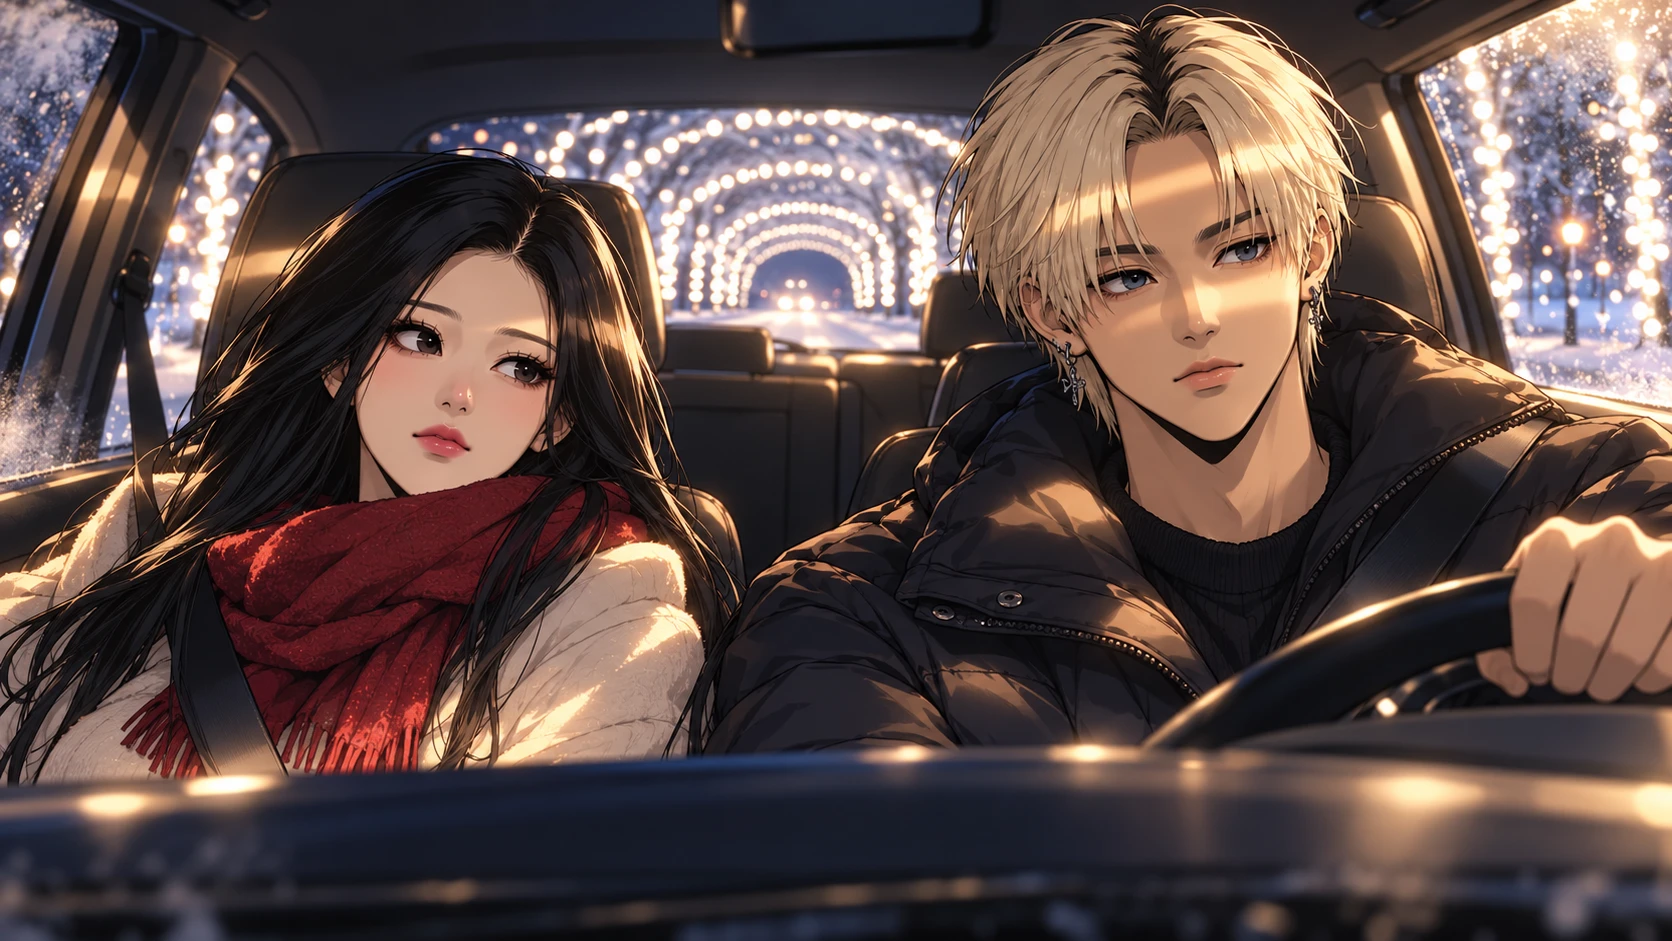
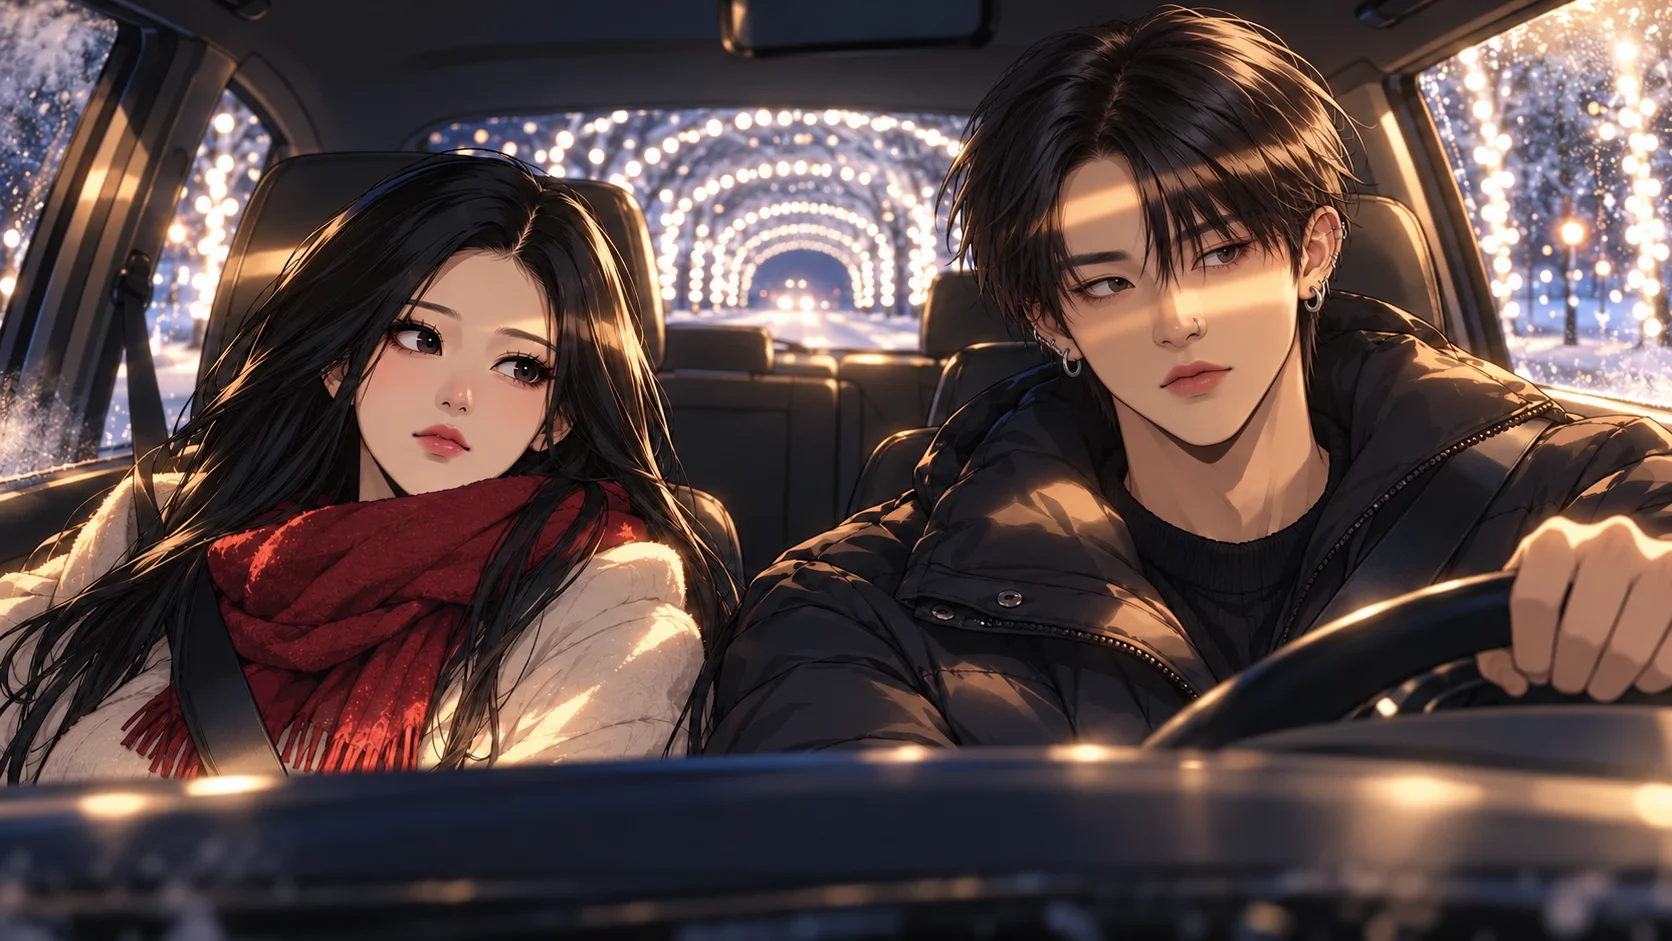
HOAX fixes 4A/4B in (Jihoon's black hair, Cherry's auburn); Kat's dawn city backgrounds saved; art list and roadmap ticked

diff --git a/FEMC-ART-TODO.md b/FEMC-ART-TODO.md
@@ -2,7 +2,7 @@
 
 Cleaned Oct 31 2026: only what's still to make. **Every attachment is in `Femc Mode Images/Place Prompt Attachments/`**, named after its item.
 
-**To make:** the title background (optional now that the cover is the title) · 3 HOAX picture fixes. **Optional:** 15 wardrobe items · 4 Stay hanami face sheets. **Parked:** `FEMC-ART-BACKBURNER.md`.
+**To make:** 1 HOAX picture fix (4C). **Optional:** 15 wardrobe items · 4 Stay hanami face sheets. **Parked:** `FEMC-ART-BACKBURNER.md`.
 
 **How to use this list**
 - Attach the files on each item's **Attach** line, in that order, then paste the prompt.
@@ -17,14 +17,8 @@ Cleaned Oct 31 2026: only what's still to make. **Every attachment is in `Femc M
 
 ---
 
-## 2. Title screen background (Gemini)
-No people: the game draws Solar over it. Leave the **right third** as open sky, because the logo and menu sit there. Nothing to attach for 2A.
-
-**2A. Title screen: the longest night turning to dawn** (no reference)
-> Persona 3 Reload style key-art background, 16:9, the largest size, no people, no readable text. A wide view from a seaside rooftop of a Japanese city at the exact moment night turns to dawn. Left and centre: the city skyline and the sea with a long suspension bridge. Far behind, a huge dark tower rises into the clouds, faint and ominous. The sky makes one sweep from deep indigo night, with stars and a pale full moon at the top right, down to a thin band of gold and rose sunrise on the horizon, with the first sunbeams spilling across the water. Keep the right third of the image mostly open sky, darker and calm. Clean lineart, flat cel shading, crisp highlights, indigo, violet, rose and gold palette, hopeful and a little melancholy.
-
-**2B. The same, Dark Hour variant** (optional, for a night title) 📎 attach your result from 2A, as an edit
-> Edit this image. Keep the composition exactly the same, but change it to the Dark Hour from Persona 3: the sky a sickly green-black, the full moon huge and yellow-green, the sunrise band gone, the city lights dead, the tower glowing faintly green, the sea dark and still. No people.
+## 2. Title screen background
+*(Done Oct 31: saved as `bg/city-dawn` and `bg/city-dawn-darkhour`.)*
 
 ---
 
@@ -36,19 +30,9 @@ No people: the game draws Solar over it. Leave the **right third** as open sky, 
 ## 4. HOAX picture fixes (ChatGPT)
 Three HOAX pictures still show the old looks (Jihoon blond, Cherry with black hair). Each one is an edit: one try each, nothing else changes.
 
-**[ ] 4A. Christmas Eve drive (Jihoon's route)**
-Attach: `Fix 1 - picture to edit (Christmas Eve drive).png`, then `Fix - Jihoon.png`
-Save as: `epi-h-eve-jihoon.png`
-```
-Edit the FIRST image. Keep everything exactly the same: the composition, the car, the tunnel of lights, the girl, the colours and the art style. Change only the young man driving: give him the face and hair of the person in the SECOND image (black, tousled hair with a fringe falling over his forehead, small silver earrings). Keep his black puffer jacket, his pose and his expression.
-```
+**[x] 4A. Christmas Eve drive** *(done Oct 31, in the game)*
 
-**[ ] 4B. The séance**
-Attach: `Fix 2 - picture to edit (seance).png`, then `Fix - Jihoon.png`, then `Fix - Cherry.png`
-Save as: `epi-h-seance.png`
-```
-Edit the FIRST image. Keep everything exactly the same: the composition, the room, the green candles, the board, the poses, the colours and the art style. Change only two people. 1) The blond young man at the top left: give him the face and hair of the person in the SECOND image (black, tousled hair with a fringe). Keep his clothes and pose. 2) The girl with wavy hair, sitting on the right of the two girls: give her the face and hair of the person in the THIRD image (long, wavy auburn-red hair). Keep her sweater and pose. The other girl, with long straight black hair, stays exactly as she is.
-```
+**[x] 4B. The séance** *(done Oct 31, in the game)*
 
 **[ ] 4C. The HOAX ending (the gym)**
 Attach: `Fix 3 - picture to edit (HOAX ending).png`, then `Fix - Jihoon.png`, then `Fix - Cherry.png`, then `Fix - Jungwon.png`

diff --git a/FEMC-FINISH-ROADMAP.md b/FEMC-FINISH-ROADMAP.md
@@ -3,17 +3,18 @@
 Kat's list of what to do before calling Persona 3: Solstice finished (Oct 30 2026), in the agreed order. Tick items off as they land.
 
 ## 1. Art clean-up (waits on ChatGPT usage)
-- [ ] HOAX outfit portraits: Christmas, the winter-break party, New Year in hanbok (outfit notes are in the Oct 30 chat; the hanbok row can grow to the whole council)
+- [x] HOAX outfit portraits (Oct 31, batch 104): Christmas, the winter-break party, New Year in hanbok (outfit notes are in the Oct 30 chat; the hanbok row can grow to the whole council)
 - [ ] Transparent versions of the remaining skin portraits and battle sheets (Claude lists which files still have backgrounds)
 
 ## 2. Pictures for the Runners social posts
 - [ ] Claude lists every post with what it shows; Kat makes the images in batches
 
 ## 3. Epilogue backgrounds (Gemini, can start now)
+(Checked Oct 31: every background the game names exists.)
 Places that still borrow a Persona 3 or main-game background:
-- [ ] Runners: Bird Library, Hall of Languages (classroom), Honors Dorm room, Marshall Street café, Football Complex
-- [ ] Strangers: the Lee house sunroom, the Yang house (hall and kitchen), Songdo (street and café), noraebang, bathhouse, the bridge
-- [ ] HOAX: Hanlim rooftop, Hanlim library, karaoke, arcade, ice rink, the party (outside), Hanlim street
+- [x] Runners: Bird Library, Hall of Languages (classroom), Honors Dorm room, Marshall Street café, Football Complex
+- [x] Strangers: the Lee house sunroom, the Yang house (hall and kitchen), Songdo (street and café), noraebang, bathhouse, the bridge
+- [x] HOAX: Hanlim rooftop, Hanlim library, karaoke, arcade, ice rink, the party (outside), Hanlim street
 
 ## 4. Skill trees: classes
 Kat's decisions:
